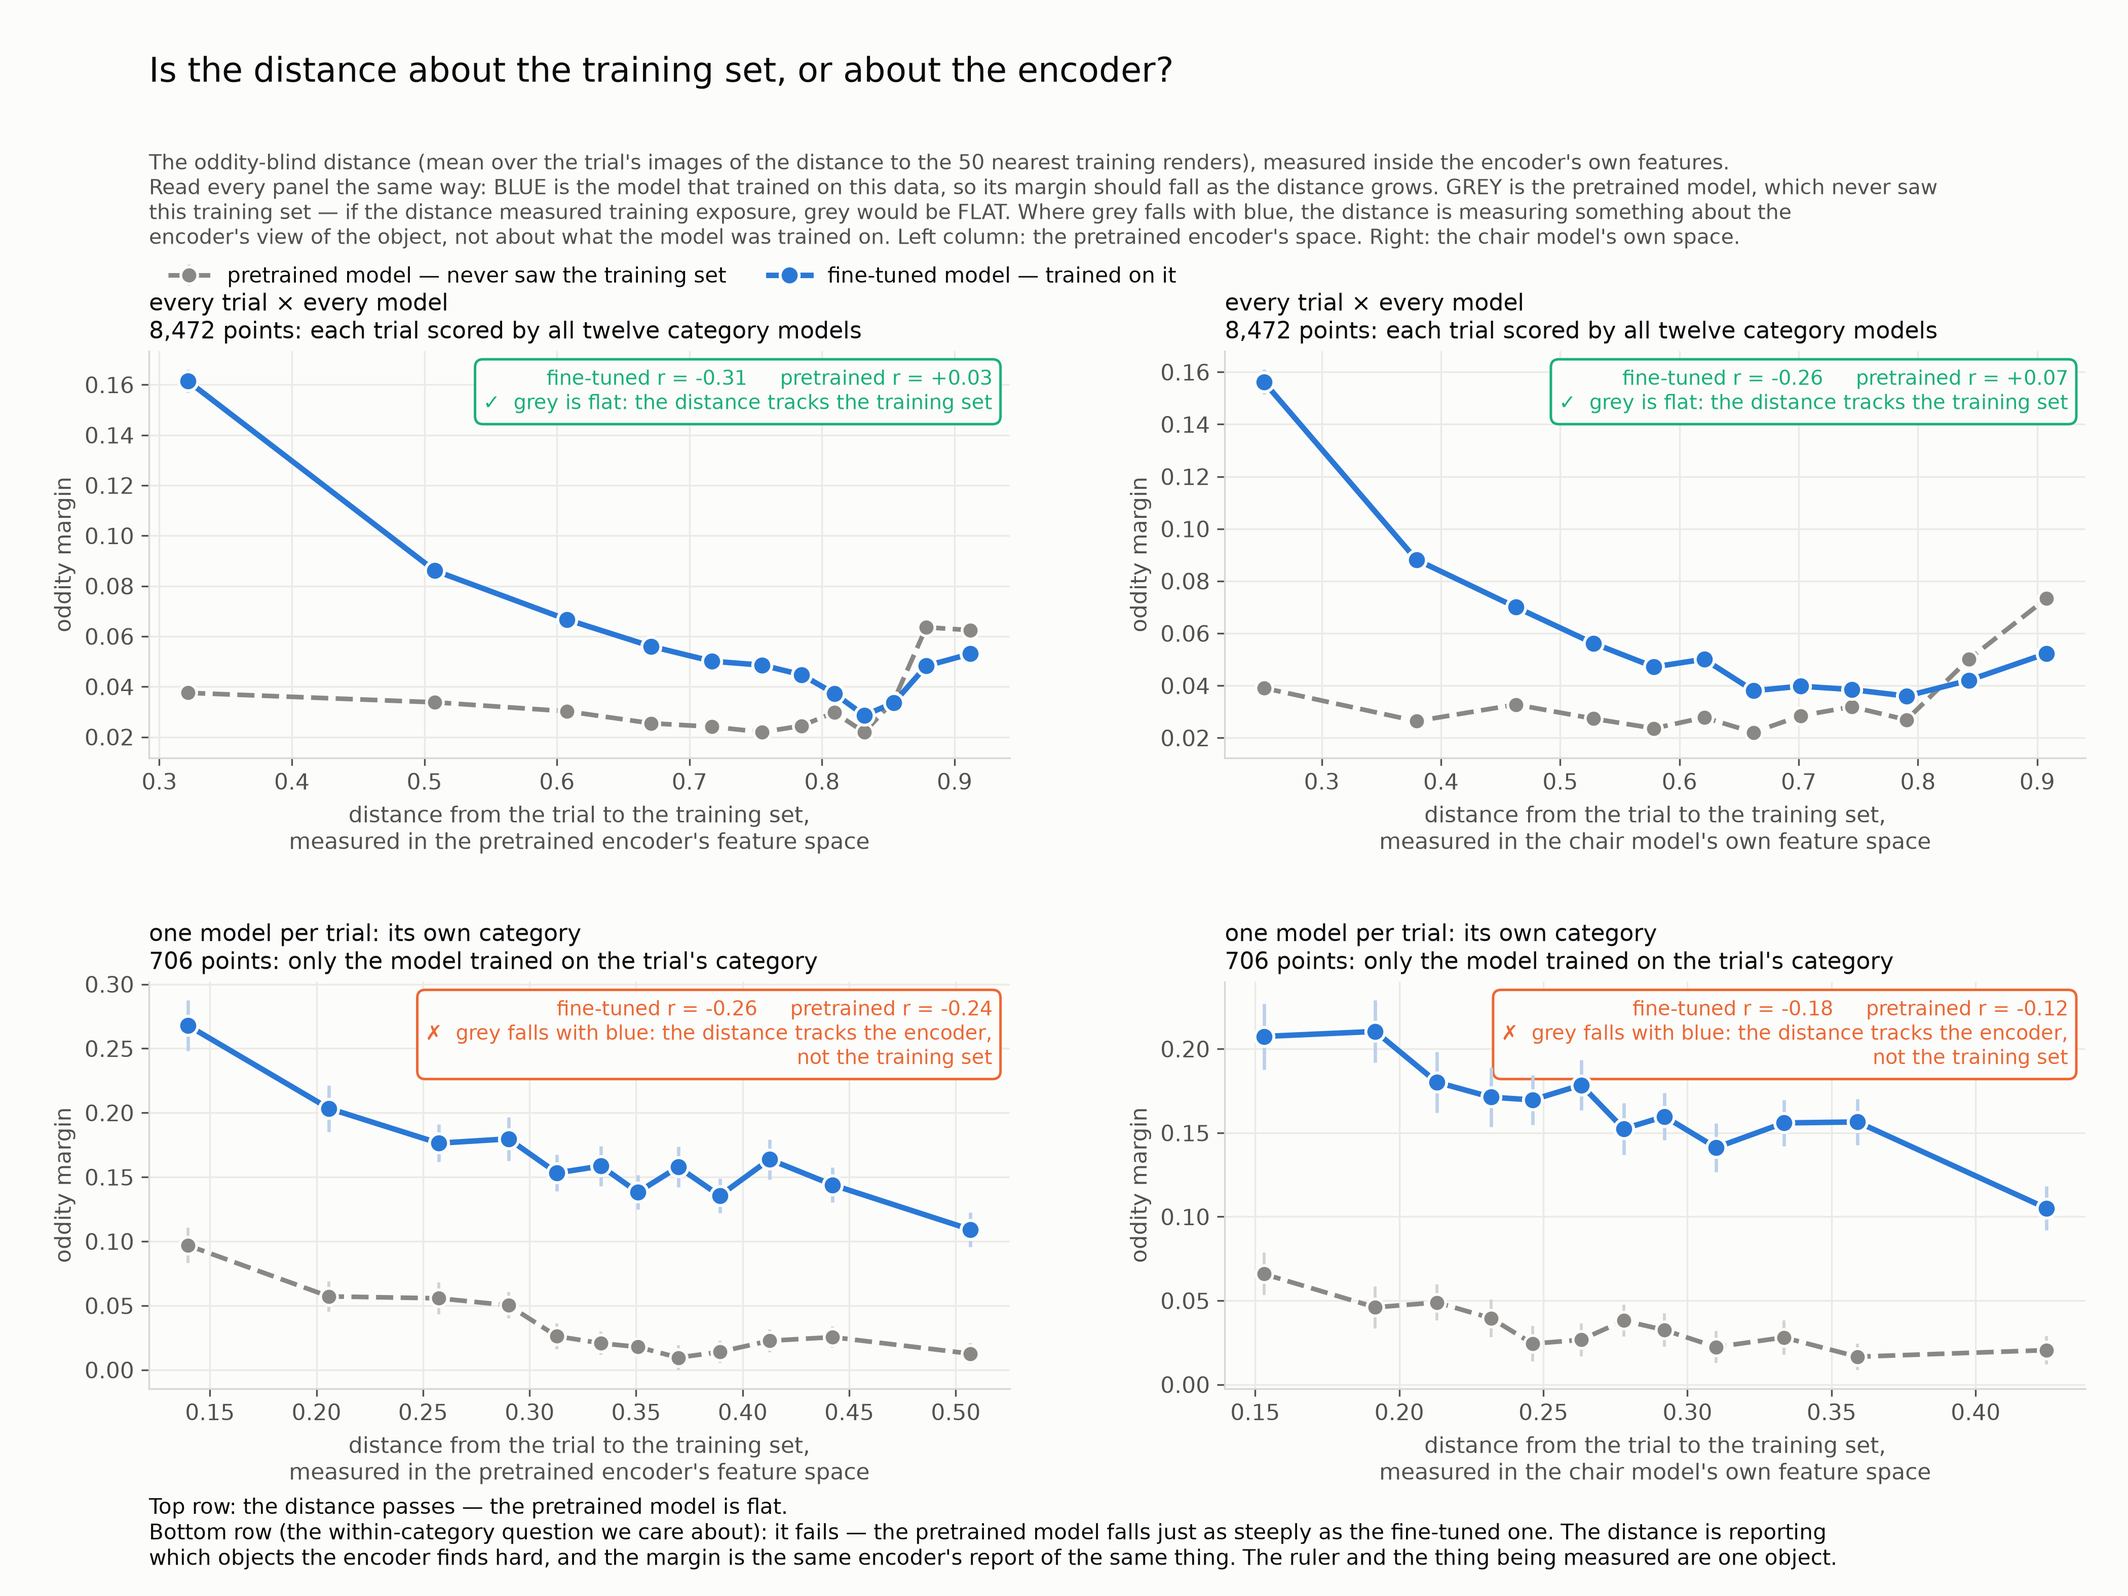
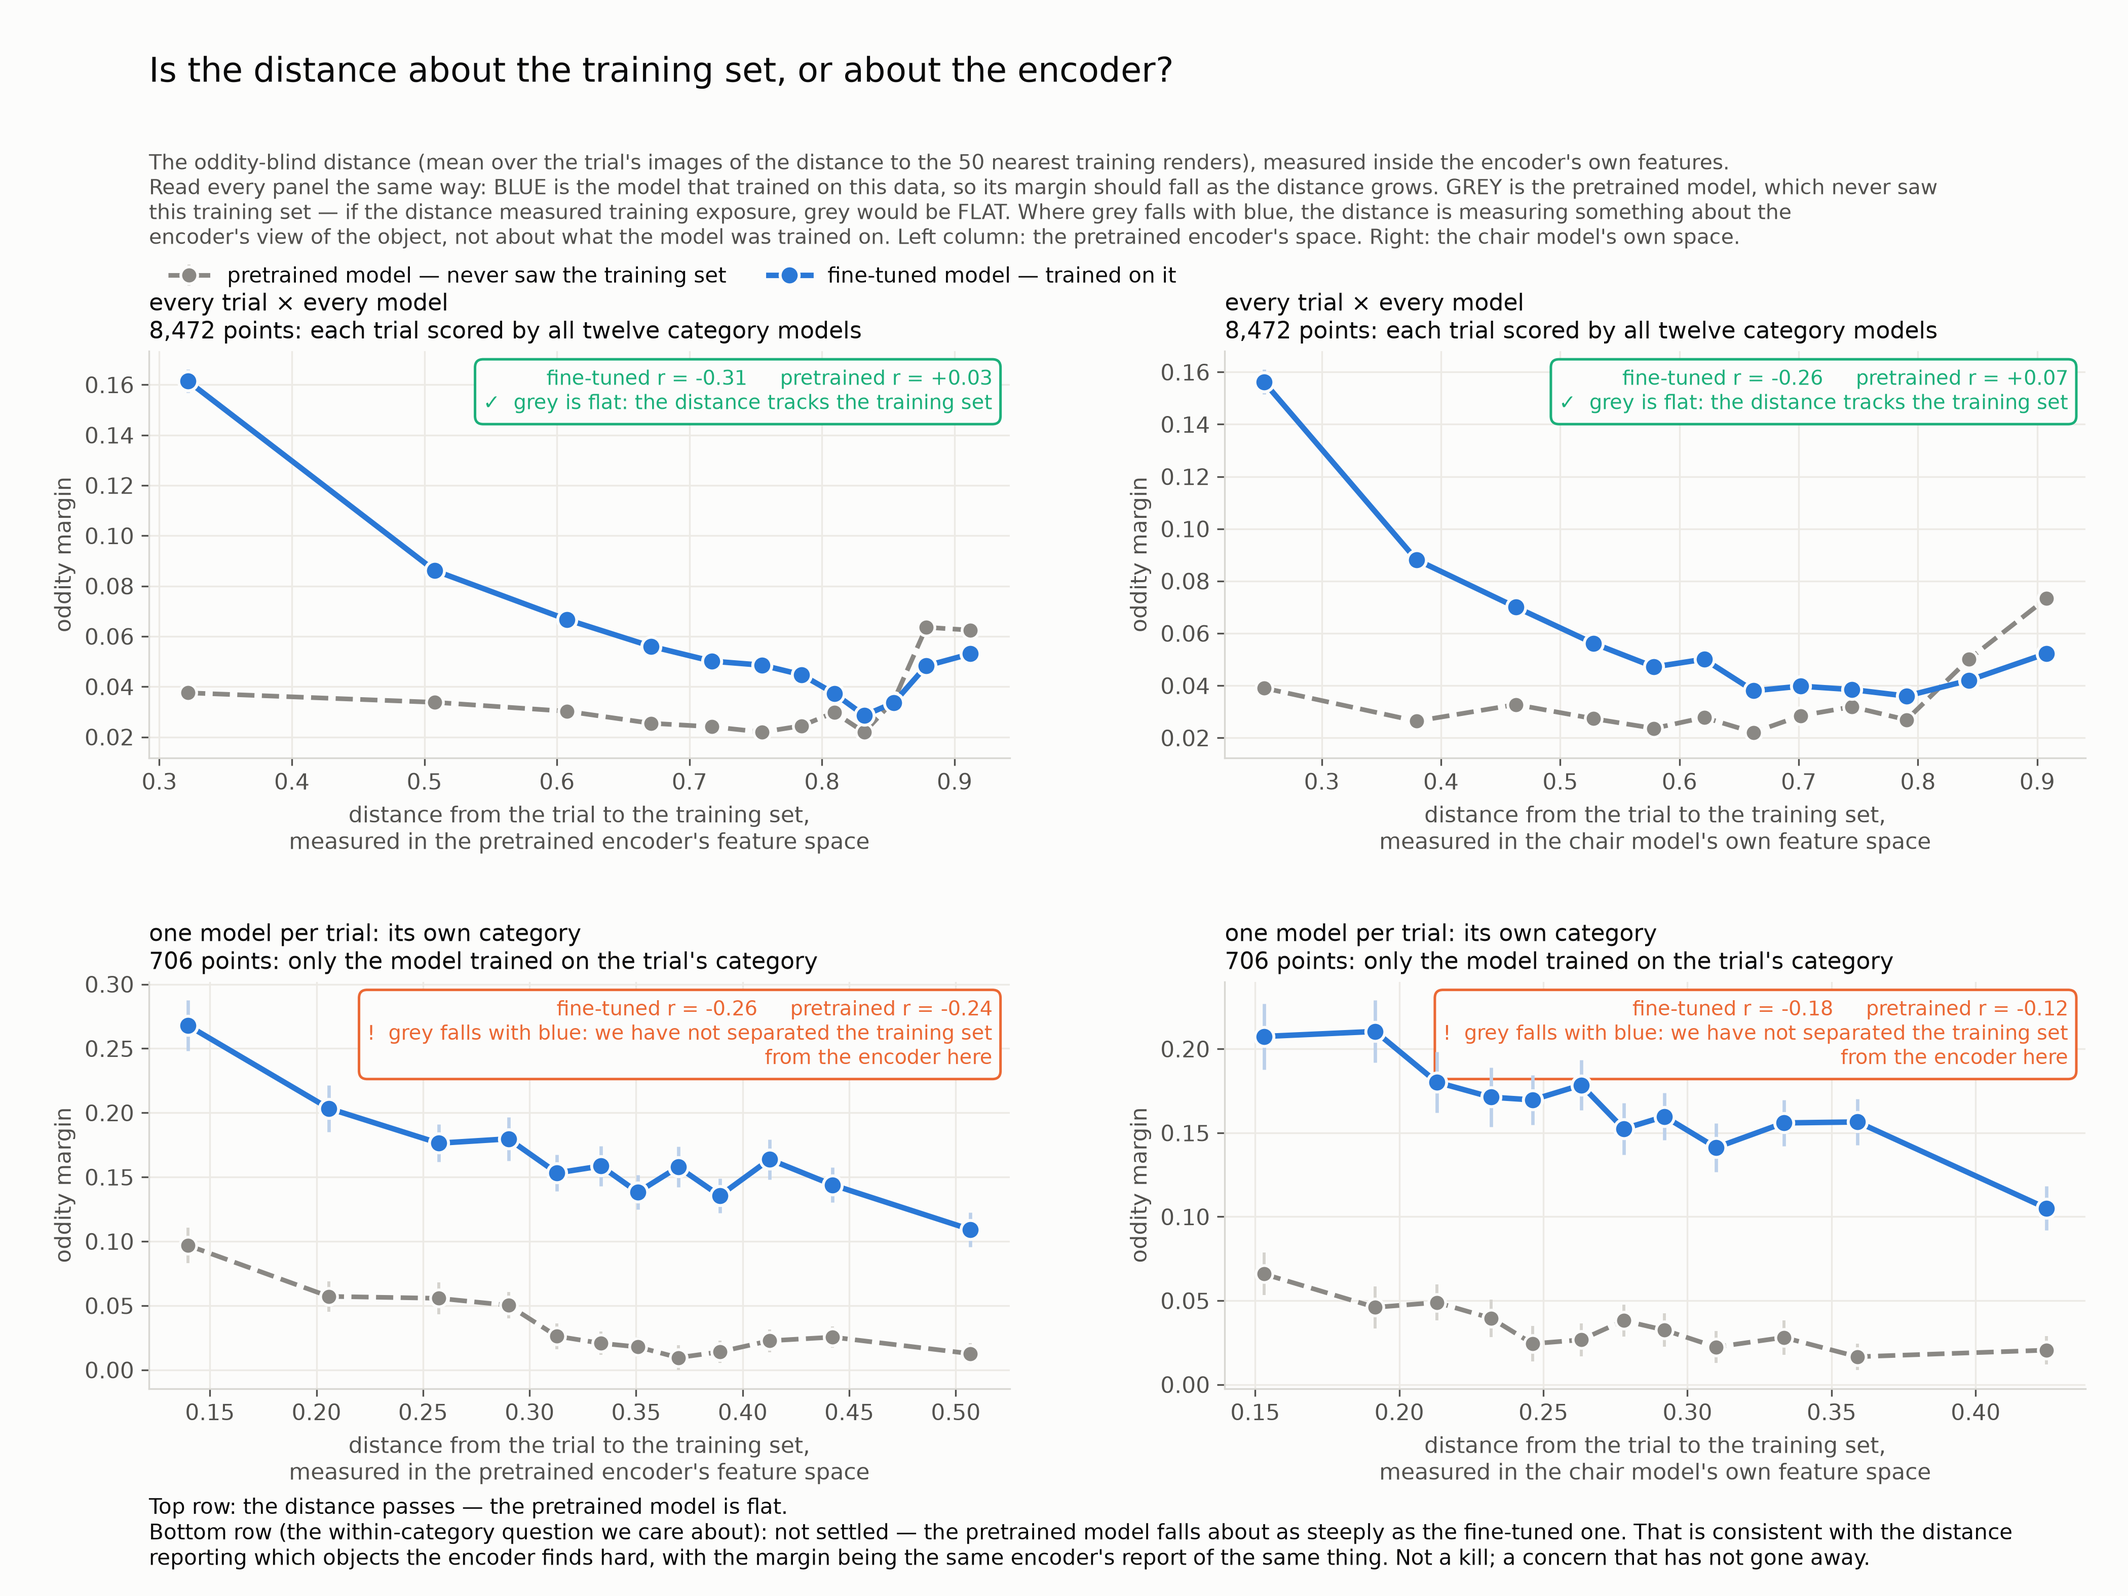
State 2: bottom row recorded as a persistent concern, not a kill; D16; state-figure recipe in agent/FEEDBACK + CHECKS
Claude-Session: https://claude.ai/code/session_017LnypoNuPTEd3UcTymGK1X

diff --git a/scratch/fig_encoder_circularity.py b/scratch/fig_encoder_circularity.py
@@ -20,7 +20,7 @@ for j,(model,name) in enumerate([('pretrained','the pretrained encoder\'s featur
         a.errorbar(bx,bp,yerr=ep,fmt='o--',color=GREY,ms=8,mfc=GREY,mec=SURF,mew=1.3,lw=2.2,ecolor='#d5d3ce',elinewidth=1.4,zorder=3,label='pretrained model — never saw the training set')
         a.errorbar(bx,bf,yerr=ef,fmt='o-',color=BLUE,ms=9,mfc=BLUE,mec=SURF,mew=1.4,lw=2.6,ecolor='#bcd0ea',elinewidth=1.6,zorder=4,label='fine-tuned model — trained on it')
         passed=abs(rp)<0.1
-        verdict=('✓  grey is flat: the distance tracks the training set' if passed else '✗  grey falls with blue: the distance tracks the encoder,\n    not the training set')
+        verdict=('✓  grey is flat: the distance tracks the training set' if passed else '!  grey falls with blue: we have not separated the training set\n    from the encoder here')
         a.set_title(f'{rowname}\n{desc}',loc='left',fontsize=11)
         a.text(0.98,0.96,f'fine-tuned r = {rf:+.2f}     pretrained r = {rp:+.2f}\n{verdict}',transform=a.transAxes,fontsize=9.6,color=OK if passed else BAD,va='top',ha='right',
                bbox=dict(boxstyle='round,pad=.4',fc=SURF,ec=OK if passed else BAD,lw=1.2))
@@ -32,6 +32,6 @@ fig.text(.07,.905,'The oddity-blind distance (mean over the trial\'s images of t
          'this training set — if the distance measured training exposure, grey would be FLAT. Where grey falls with blue, the distance is measuring something about the\n'
          'encoder\'s view of the object, not about what the model was trained on. Left column: the pretrained encoder\'s space. Right: the chair model\'s own space.',fontsize=9.8,color=INK2,va='top')
 fig.legend(h,l,loc='upper left',bbox_to_anchor=(.07,.845),ncol=2,fontsize=10,frameon=False)
-fig.text(.07,.015,'Top row: the distance passes — the pretrained model is flat.\nBottom row (the within-category question we care about): it fails — the pretrained model falls just as steeply as the fine-tuned one. The distance is reporting\nwhich objects the encoder finds hard, and the margin is the same encoder\'s report of the same thing. The ruler and the thing being measured are one object.',fontsize=10,color=INK,va='bottom')
+fig.text(.07,.015,'Top row: the distance passes — the pretrained model is flat.\nBottom row (the within-category question we care about): not settled — the pretrained model falls about as steeply as the fine-tuned one. That is consistent with the distance\nreporting which objects the encoder finds hard, with the margin being the same encoder\'s report of the same thing. Not a kill; a concern that has not gone away.',fontsize=10,color=INK,va='bottom')
 fig.subplots_adjust(bottom=.13,top=.78)
 fig.savefig(f'{G}/out/figures/fig62_encoder_space.png',dpi=300); print('[fig] 62 rebuilt')

diff --git a/states/02-a-form-that-escapes-the-bound.md b/states/02-a-form-that-escapes-the-bound.md
@@ -10,11 +10,13 @@ Find a way to use the oddity margin as a proxy for distribution shift — the di
 
 **Part one, the form.** For each image in the trial, the mean distance to its 50 nearest training items; then the mean over the trial's images. No A/B roles, nothing differenced, so no ½·d(A,B) floor by construction. Cosine on unit-normalised features, so vector length cannot enter either [D02].
 
-**What that buys inside the encoder's own space.** Computed in DINOv2-L features against the training bank the models saw, the oddity-blind form does most of what we asked of it. The figure below is one plot type repeated four times: distance from the trial to the training set, measured in an encoder's features, against the oddity margin of the model trained on that set (blue) and of the pretrained model that never saw it (grey). The expectation is the same in every panel — blue should fall, and if the distance is about the training set, grey should be flat. Top row: it is. Pooled over all trials and all twelve category models, the pretrained margin is flat (r +0.03 in the pretrained encoder's space, +0.07 in the chair model's own) — the control the manuscript's metric fails [D15]. Bottom row, restricted to each trial's own-category model — the within-category question we actually care about — it is not: grey falls as steeply as blue (−0.24 vs −0.26). In the encoder's space, "far from the training set" and "looks unusual to this encoder" are nearly the same thing, and the margin is that same encoder's report of the same thing. The ruler and what it is measuring are one object; the fine-tuned models change the numbers but not the circularity.
+**What that buys inside the encoder's own space.** Computed in DINOv2-L features against the training bank the models saw, the oddity-blind form does most of what we asked of it. The figure below is one plot type repeated four times: distance from the trial to the training set, measured in an encoder's features, against the oddity margin of the model trained on that set (blue) and of the pretrained model that never saw it (grey). The expectation is the same in every panel — blue should fall, and if the distance is about the training set, grey should be flat. Top row: it is. Pooled over all trials and all twelve category models, the pretrained margin is flat (r +0.03 in the pretrained encoder's space, +0.07 in the chair model's own) — the control the manuscript's metric fails [D15]. The right-hand end of both top panels turns up a little, which we noted and let go.
+
+**The concern that did not go away.** Bottom row, restricted to each trial's own-category model — the within-category question we actually care about — grey is not flat: it falls about as steeply as blue (−0.24 vs −0.26 in the pretrained space; −0.12 vs −0.18 in the chair model's). This is not a conclusive result against the encoder-space estimate, and we do not want to treat it as one; nor is the fact that the fine-tuned correlation is a bit stronger than the pretrained one the kind of evidence we are after — a comparison of two coefficients is not an understanding of what the distance is measuring. What the bottom row does is make us pause. It is consistent with the distance reporting which objects the encoder finds hard, with the margin being the same encoder's report of the same thing — the ruler and the thing measured being one object — and while it stays like this we cannot say we have separated the training set from the encoder. We record it as a persistent, unresolved concern rather than a kill, because that is what it was [[D16](../REASONING.md#D16)].
 
 ![one plot, four times: distance to the training set measured in the encoder's own space, against the fine-tuned and pretrained margins](../evidence/fig62_encoder_space.png)
 
-**Why we moved on anyway.** Not because the form fix failed — it largely worked — but because the space is the second problem and a fixed form does not solve it. An estimate computed in the encoder's features is still a property of the encoder: it cannot be checked against anything the encoder does not see, it inherits whatever the encoder has learned about typicality, and it can never be applied to a system whose encoder we cannot open — which is the human, the point of the paper. A lot of search sat behind this step — variants of the form, of k, of the distance — that is not reported here; the figure above is the one that made the decision.
+**Why we moved on anyway.** Not because the form fix failed — it largely worked — and not because the bottom row settled anything, but because the space is the second problem and a fixed form does not solve it. An estimate computed in the encoder's features is still a property of the encoder: it cannot be checked against anything the encoder does not see, it inherits whatever the encoder has learned about typicality, and it can never be applied to a system whose encoder we cannot open — which is the human, the point of the paper. A lot of search sat behind this step — variants of the form, of k, of the distance — that is not reported here; the figure above is the one that made the decision, and the bottom row of it is the concern we carried forward.
 
 **In hindsight.** r64w's suggestion of running both metrics on two random halves of one dataset is a version of the control that the form fix passes and the original metric fails; and their question about an object-based measure averaged over views is the next thing we built.
 

diff --git a/REASONING.md b/REASONING.md
@@ -9,6 +9,17 @@ Template — one line each:
 **Steering:** who drove it — lead / agent / joint (note when the lead is deferring) ·
 **Confidence:** one line per contributor, by role and identity — `lead (TB)`, `agent (Claude Opus 5)` — low / medium / high, and what they are unsure of.
 
+<a id="D16"></a>
+## D16 — 2026-09-19 — The encoder-space own-category result is a concern, not a kill; how a state figure should be built
+**State:** State 2 under review with the lead; the replacement encoder-space figure (evidence/fig62: one plot type × 4, expectation stated, verdict boxes).
+**Observation:** On the own-category rows the pretrained margin falls with the encoder-space distance about as steeply as the fine-tuned margin (−0.24 vs −0.26). Lead's read: top row looks good (a small upturn at the far right, let go); bottom row "makes me pause" — a subtle, persistent concern, not a conclusive result.
+**Decision:** Record it at that weight in State 2. Grade results as behaves-as-expected / concern / conclusive, not pass/fail. "Fine-tuned r > pretrained r" is not the evidence we are after; what we want is to understand what the distance measures. The figure recipe (one plot type repeated; say the expectation before the data; graded verdict box off the data; nothing anachronistic) goes into agent/FEEDBACK.md and CHECKS.md.
+**Because:** The trace should carry the concerns that did not go away, at the weight they had. Calling this a kill, or hiding it behind a coefficient comparison, both misrepresent the process.
+**Rejected:** Wording the bottom row as a failure of the encoder-space estimate (not established); dropping it (it is why leaving the encoder's space felt necessary).
+**Implication:** The concern carries into States 3–5; the knock-in runs are the test that can settle it. Figure recipe applies to every state figure from here.
+**Steering:** lead — read the result and set its weight; agent — built the figure and drafted the text.
+**Confidence:** lead (TB): — (to fill) · agent (Claude Opus 5): high the pattern is real; medium on "ruler and object are one" as the explanation.
+
 <a id="D15"></a>
 ## D15 — 2026-09-19 — The oddity-blind estimate inside the encoders' own spaces: leaving the encoder was a choice, and the encoder sees within-category structure geometry does not
 **State:** Track A features extracted (pretrained DINOv2-L and the chair/airplane/table fine-tunes, 311k renders + MOCHI); lead reviewing the states and asking, for State 2, what actually showed the encoder space to be insufficient.

diff --git a/agent/FEEDBACK.md b/agent/FEEDBACK.md
@@ -1,6 +1,17 @@
 # FEEDBACK — how the lead wants work done here
 Typed like Claude Code `feedback` memories: the correction, why, how to apply. Newest first.
 
+## A state figure: one plot type, the expectation stated, the verdict graded (2026-09-19)
+"With these figures I have to spend a really long time to understand what I should expect." Then, of the replacement: "fantastic".
+**Why:** a state figure is read on a phone by someone who has not been in the analysis for hours; if the reader has to work out what a flat line would mean, the figure has failed regardless of what it shows.
+**Apply — the recipe:**
+- One plot type, repeated. Every panel has the same x, the same y, the same two lines. Rows/columns vary one thing each and the panel title says which (`every trial × every model` / `one model per trial: its own category`).
+- Say the expectation before the data: in the subtitle, one sentence per line — what should happen if the claim is true (blue falls), and what the control should do (grey flat). The reader then checks, not decodes.
+- A verdict box in each panel, in the empty corner, never on the data: the two numbers, then one clause in plain words. Colour the box by grade — green = behaves as expected; orange = a concern, not settled; red is reserved for a conclusive failure and has not yet been needed.
+- Grade honestly. "Grey falls with blue" is a concern that makes the lead pause, not a kill; do not write ✗/fails when the honest state is "we have not separated these yet". A larger r for the fine-tuned than the pretrained model is not the kind of evidence we want; say what the pattern is consistent with instead.
+- Nothing anachronistic: a state figure may only use measures that existed at that state (geometric coverage does not belong in State 2).
+- Footer: two lines that say what each row showed, in the same words as the verdicts. Then check the rendered PNG for collisions and clipping before sending.
+
 ## Never retrofit external feedback onto later findings (2026-09-19)
 Reviews were confusing at the time and the honest belief was "right but miscommunicated". Log what was said and how it read then; log recognitions where they happen, as recognitions.
 **Why:** retrofitting overstates both the reviewers' clarity and our foresight; the trace is about how understanding actually changed.

diff --git a/agent/CHECKS.md b/agent/CHECKS.md
@@ -16,6 +16,7 @@ Each caught a real error in this project. The number in brackets is the entry wh
 - **Permutation null on the max statistic** when reporting a search's best.
 
 ## For any figure
+- **A state figure states its expectation** (what the lines should do if the claim is true; what the control should do) before showing the data, one plot type repeated, verdict boxes graded green / orange / red and worded as concern vs kill honestly. Recipe in FEEDBACK.md. Only measures that existed at that state.
 - **Own axis for the control** when it compresses the effect; **independent y-limits** when panels are compared on shape, not level (fig 17).
 - **Coverage-type measures saturate:** bin on the raw count with log-spaced edges, not on quantiles of the score (85 % of pairs sit at zero).
 - Check the rendered PNG for title/caption collisions before sending; the lead reads on a phone.
